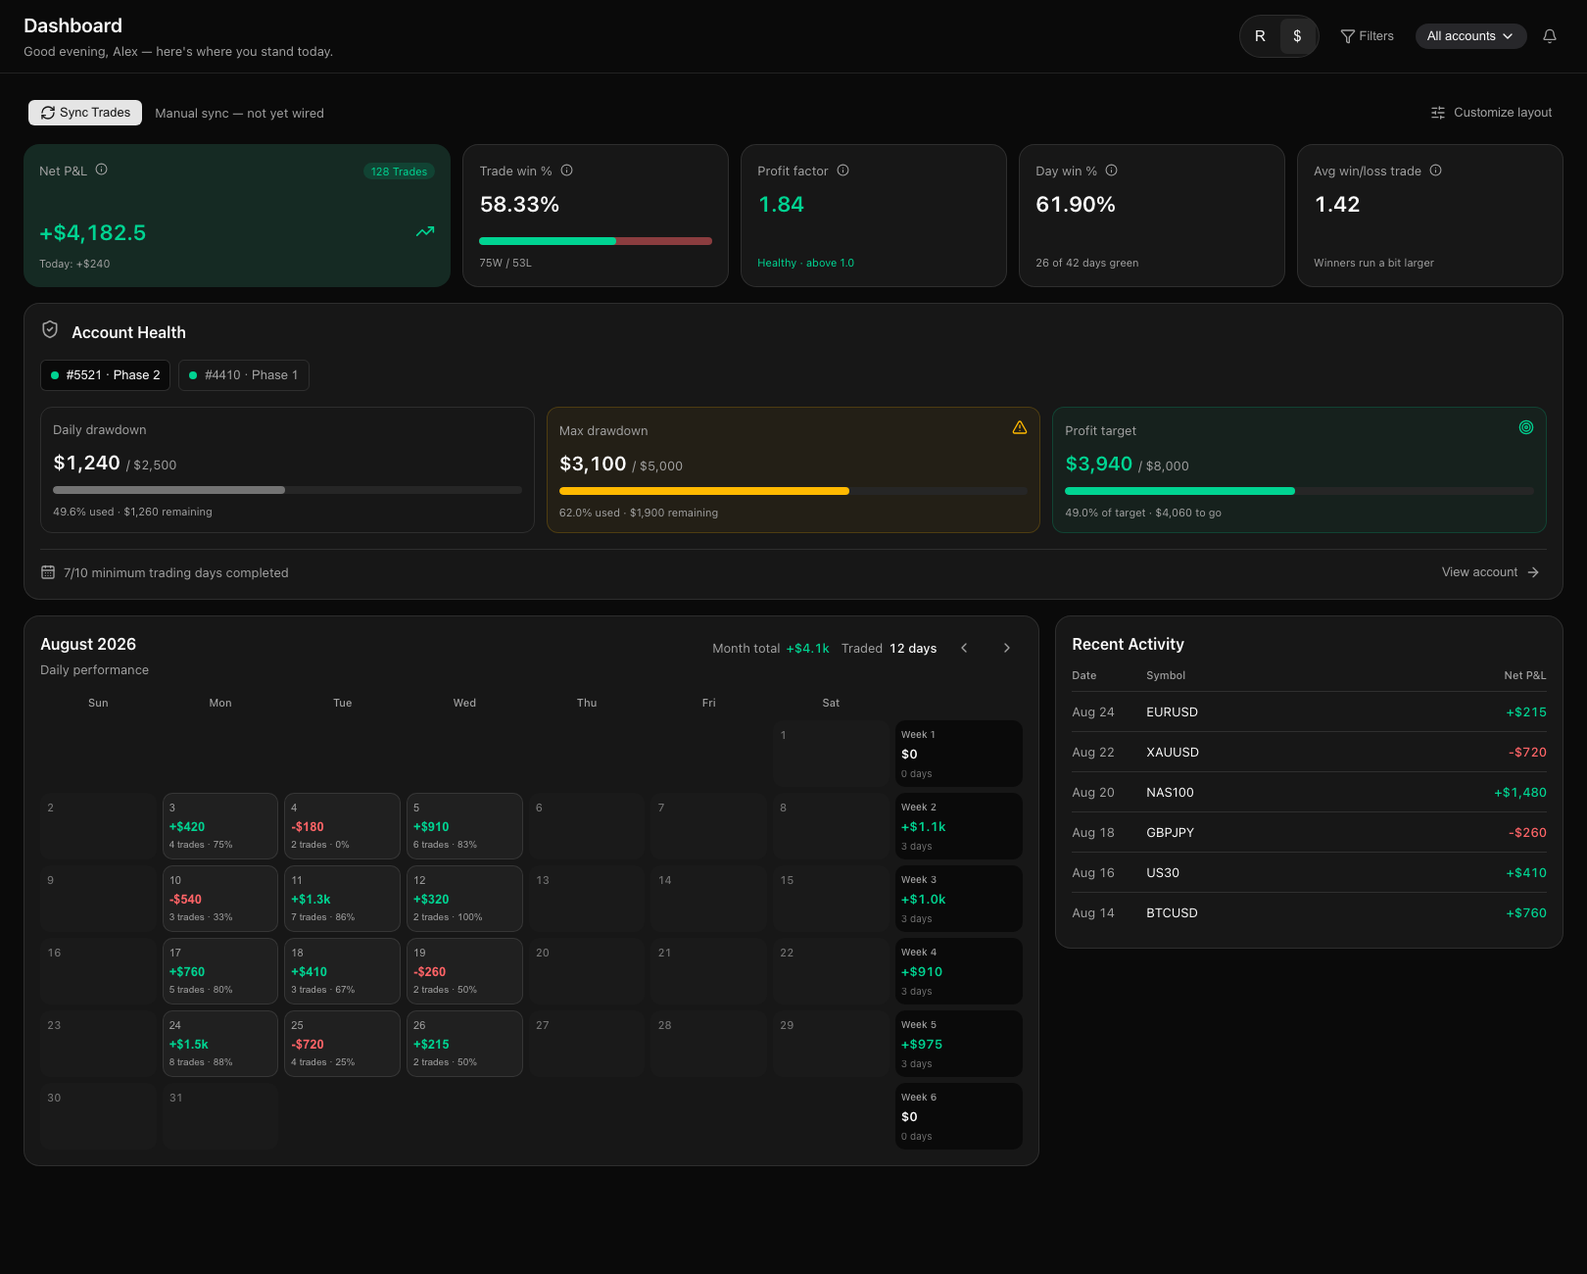
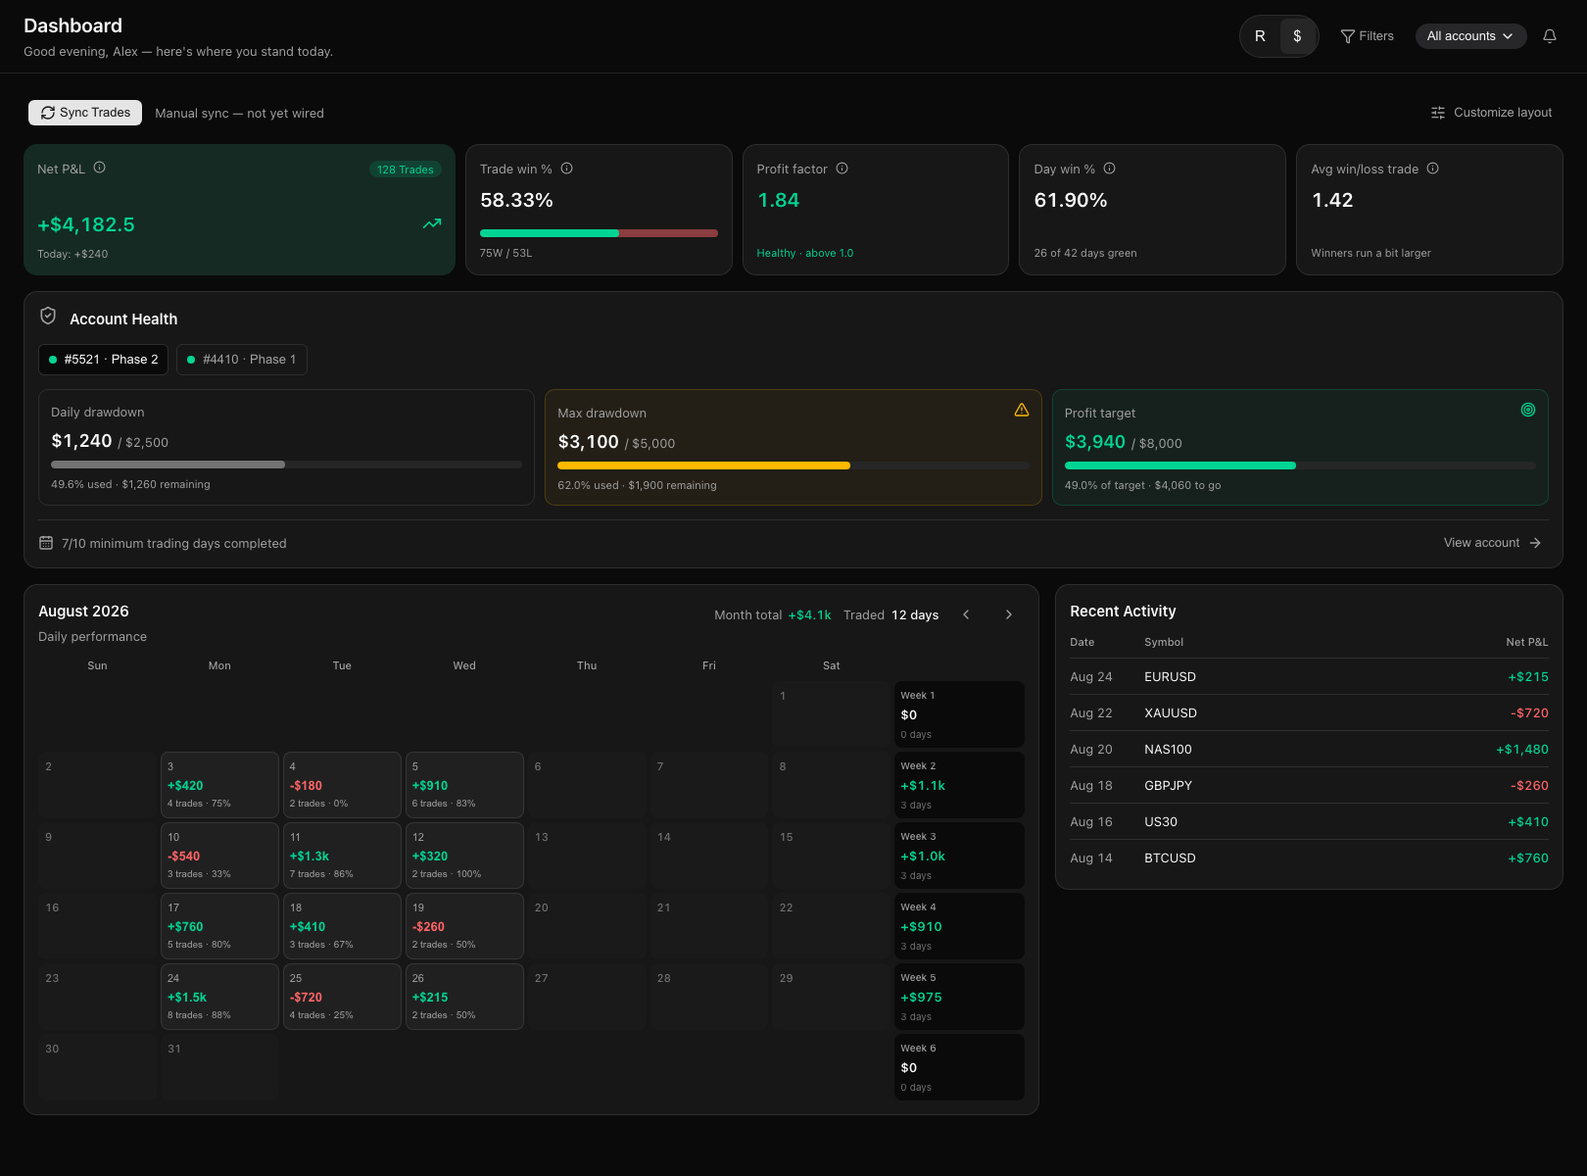
A third scale step, and the real reason the events column was empty
THE FALLBACK WAS NOT BROKEN — THERE WAS NOTHING TO FALL BACK TO, and the column
was hidden so nobody could tell. Two separate causes, both fixed.

The feed is `ff_calendar_thisweek.json` and that is the provider's whole
catalogue: `_nextweek` and `_lastweek` both 404, verified by hitting them. So for
the last third of every week there are genuinely no future releases — checked live
on Friday at 22:00, which is exactly when the screenshot was taken: two events
left in the feed, ZERO of them high-impact. The fallback scans that same feed, so
it correctly found nothing.

I briefly "fixed" this by adding the next-week URL to the config. It 404s. That
is reverted, and config.js now records the verification so the next person does
not spend the same ten minutes — with a note that the list is comma-separated and
calendar.js already merges across feeds, so adding a provider with forward
coverage is a config change when we pick one. The dedupe added for that merge is
kept: one feed today, but flatMap over a list plus an overlapping second source is
a duplicated release the first time anyone adds one.

AND `hideEmpty` WAS HIDING THE EXPLANATION. It defaults to true and hid any empty
section, so the column vanished entirely — taking the fallback, the note, and the
heading with it. The pref means "do not show me a section MY filter has emptied";
it does not mean "hide it when the app has no data". Now narrowed to exactly that:
[…]

diff --git a/frontend/src/components/primitives/brief.jsx b/frontend/src/components/primitives/brief.jsx
@@ -37,7 +37,7 @@ export function BriefCard({ className, children, ...rest }) {
     <section
       data-slot="brief"
       className={cn(
-        'flex flex-col gap-3 rounded-[16px] bg-[var(--surface)] p-4',
+        'flex flex-col gap-3 rounded-[14px] bg-[var(--surface)] p-3.5',
         className,
       )}
       {...rest}
@@ -68,11 +68,11 @@ export function BriefHeader({ icon, title, date, clock, action, aside, className
         {/* The tile is amber because the brief is the morning read, not because
             anything is wrong — 10% is a wash, well below the 15% the impact badges
             use and the 10% the alert rows use for actual warnings. */}
-        <span className="flex size-9 shrink-0 items-center justify-center rounded-[12px] bg-[var(--brief-tile-bg)] text-[var(--warning)] [&_svg]:size-4">
+        <span className="flex size-8 shrink-0 items-center justify-center rounded-[10px] bg-[var(--brief-tile-bg)] text-[var(--warning)] [&_svg]:size-4">
           {icon}
         </span>
         <div className="flex min-w-0 flex-wrap items-center gap-x-4 gap-y-1">
-          <h3 className="text-[16px] leading-6 font-semibold text-[var(--text)]">{title}</h3>
+          <h3 className="text-[15px] leading-6 font-semibold text-[var(--text)]">{title}</h3>
           <span className="text-[13px] leading-5 font-normal text-[var(--muted)]">{date}</span>
           {clock}
         </div>
@@ -144,7 +144,7 @@ export function BriefColumns({ className, children, ...rest }) {
     <div
       data-slot="brief-columns"
       className={cn(
-        'grid grid-cols-2 gap-5 max-[1200px]:grid-cols-1 max-[1200px]:gap-4',
+        'grid grid-cols-2 gap-4 max-[1200px]:grid-cols-1 max-[1200px]:gap-3',
         /* A LONE COLUMN TAKES THE WHOLE WIDTH. `hideEmpty` can switch either section
          * off, and a single half-width list beside an empty half reads as a column that
          * failed to load rather than one the user turned off. `:only-child` says it in
@@ -203,7 +203,7 @@ export function BriefEvent({ currency, title, time, impact = 'low', impactLabel,
     <div
       data-slot="brief-event"
       className={cn(
-        'flex items-center gap-3 rounded-[12px] bg-[var(--brief-row-bg)] px-3 py-2',
+        'flex items-center gap-2.5 rounded-[10px] bg-[var(--brief-row-bg)] px-2.5 py-1.5',
         className,
       )}
       {...rest}
@@ -243,7 +243,7 @@ export function BriefAlert({ severity = 'info', icon, className, children, ...re
   return (
     <div
       data-slot="brief-alert"
-      className={cn('flex items-center gap-3 rounded-[12px] border px-3 py-2.5', className)}
+      className={cn('flex items-center gap-2.5 rounded-[10px] border px-2.5 py-2', className)}
       style={{
         background: `color-mix(in srgb, ${hue} 10%, transparent)`,
         borderColor: `color-mix(in srgb, ${hue} 20%, transparent)`,

diff --git a/frontend/src/features/dashboard/Dashboard.jsx b/frontend/src/features/dashboard/Dashboard.jsx
@@ -92,8 +92,23 @@ function useMinuteClock() {
 const EMPTY_EVENT_COPY = {
   'no-currencies': 'No currencies selected — pick at least one in Brief settings.',
   'filtered-out': 'No events match your Brief settings for this window.',
-  'no-events': 'No events on the calendar right now.',
+  /* THE COMMON CASE, AND IT USED TO SAY NOTHING USEFUL. The provider publishes the
+     CURRENT WEEK ONLY (config.js has the verification), so from Friday evening until the
+     new file lands there are genuinely no future releases — checked on a Friday at 22:00:
+     two events left in the feed, neither high-impact. "No events on the calendar right
+     now" reads as a bug in our app; this says what is actually true and when it changes. */
+  'no-events': 'The economic calendar covers the current week only — next week\'s releases appear once it publishes.',
 };
+
+/* WHICH EMPTY SECTIONS `hideEmpty` MAY HIDE.
+ *
+ * The pref means "do not show me a section my own filter has emptied" — that is what a
+ * user is asking for when they set it. It does not mean "hide it when the DATA is not
+ * there": that is the app having nothing, and the trader should be told rather than
+ * shown a card with a column missing. It matters because the data-gap case is the
+ * common one (see above) and hiding it made the fallback and its explanation
+ * unreachable — the column simply vanished, which is what the owner reported. */
+const USER_EMPTIED = new Set(['filtered-out', 'no-currencies']);
 
 // The feed's closed impact set (see normalizeImpact in src/platform/calendar.js)
 // rendered as the badge that ends each event row. `low` is spelled out rather than
@@ -151,7 +166,8 @@ export function DailyBanner({ notifications = [], prefs, patchBriefPrefs, setBri
 
   // A section is rendered when its toggle is on AND either it has content or the
   // user hasn't asked for empty sections to be hidden.
-  const showEvents = briefSectionOn(prefs, 'events') && (!prefs.hideEmpty || eventRows.length > 0);
+  const showEvents = briefSectionOn(prefs, 'events')
+    && (!prefs.hideEmpty || eventRows.length > 0 || (events != null && !USER_EMPTIED.has(emptyReason)));
   const showAlerts = briefSectionOn(prefs, 'alerts') && (!prefs.hideEmpty || alerts.length > 0);
   // With everything hidden the banner would collapse to a bare title bar, which
   // reads as broken — say so instead.

diff --git a/frontend/src/components/primitives/account.jsx b/frontend/src/components/primitives/account.jsx
@@ -47,7 +47,7 @@ export function AccountCardShell({ className, children, ...rest }) {
     <section
       data-slot="account-card"
       className={cn(
-        'flex flex-col gap-4 rounded-[16px] border border-[var(--line)] bg-[var(--surface)] p-4',
+        'flex flex-col gap-3.5 rounded-[14px] border border-[var(--line)] bg-[var(--surface)] p-3.5',
         className,
       )}
       {...rest}
@@ -70,7 +70,7 @@ export function AccountCardHead({ icon, sub, className, children, ...rest }) {
     <div data-slot="account-head" className={cn('flex flex-col gap-1.5', className)} {...rest}>
       <div className="flex items-center gap-3">
         {icon && <span className="shrink-0 text-[var(--text-2)] [&_svg]:size-5">{icon}</span>}
-        <h3 className="text-[16px] leading-6 font-semibold text-[var(--text)]">{children}</h3>
+        <h3 className="text-[15px] leading-6 font-semibold text-[var(--text)]">{children}</h3>
       </div>
       {sub && <p className="m-0 text-[13px] leading-5 text-[var(--muted)]">{sub}</p>}
     </div>
@@ -156,7 +156,7 @@ export function MeterRow({ className, children, ...rest }) {
   return (
     <div
       data-slot="meter-row"
-      className={cn('grid grid-cols-3 gap-3 max-[1200px]:grid-cols-1', className)}
+      className={cn('grid grid-cols-3 gap-2.5 max-[1200px]:grid-cols-1', className)}
       {...rest}
     >
       {children}
@@ -189,7 +189,7 @@ export function Meter({
   return (
     <div
       data-slot="meter"
-      className={cn('flex flex-col gap-2.5 rounded-[12px] border p-3', className)}
+      className={cn('flex flex-col gap-2 rounded-[10px] border p-3', className)}
       style={{
         // No wash and a plain hairline when the account is fine. See the header on why
         // a quiet meter stays quiet.
@@ -208,7 +208,7 @@ export function Meter({
           these tick on every ingested trade. */}
       <p className="m-0 flex flex-wrap items-baseline gap-1.5">
         <span
-          className="text-[20px] leading-7 font-semibold tabular-nums"
+          className="text-[18px] leading-6 font-semibold tabular-nums"
           style={{ color: hue && tone !== 'warn' && tone !== 'bad' ? hue : 'var(--text)' }}
         >
           {value}

diff --git a/frontend/src/components/primitives/calendar.jsx b/frontend/src/components/primitives/calendar.jsx
@@ -46,7 +46,7 @@ export function CalRoot({ className, children, ...rest }) {
   return (
     <div
       data-slot="cal-root"
-      className={cn('flex min-h-0 flex-1 flex-col gap-4', className)}
+      className={cn('flex min-h-0 flex-1 flex-col gap-3', className)}
       {...rest}
     >
       {children}
@@ -58,7 +58,7 @@ export function CalGrid({ columns = 8, className, children, ...rest }) {
   return (
     <div
       data-slot="cal-grid"
-      className={cn('grid gap-1.5', className)}
+      className={cn('grid gap-1', className)}
       // 7 days plus the week-summary column. A CSS variable rather than a Tailwind
       // class because the caller owns whether the week column exists.
       style={{ gridTemplateColumns: `repeat(${columns - 1}, minmax(0, 1fr)) minmax(0, 1.1fr)` }}
@@ -96,7 +96,7 @@ export function CalCell({ tone = 'idle', clickable = false, className, children,
       data-slot="cal-cell"
       data-tone={tone}
       className={cn(
-        'flex min-h-[3.75rem] flex-col items-stretch gap-0.5 rounded-[10px] border p-1.5 text-left',
+        'flex min-h-[3.25rem] flex-col items-stretch gap-0.5 rounded-[8px] border p-1.5 text-left',
         clickable && 'cursor-pointer transition-colors hover:border-[var(--line-strong)]',
         clickable && 'focus-visible:ring-2 focus-visible:ring-[var(--accent-ring)] focus-visible:outline-none',
         className,
@@ -159,7 +159,7 @@ export function CalWeek({ tone, label, value, sub, className, ...rest }) {
   return (
     <div
       data-slot="cal-week"
-      className={cn('flex min-h-[3.75rem] flex-col justify-center gap-0.5 rounded-[10px] bg-[var(--bg)] p-1.5', className)}
+      className={cn('flex min-h-[3.25rem] flex-col justify-center gap-0.5 rounded-[8px] bg-[var(--bg)] p-1.5', className)}
       {...rest}
     >
       <span className="text-[10px] leading-4 font-medium text-[var(--muted)]">{label}</span>

diff --git a/test/dash-panels.test.js b/test/dash-panels.test.js
@@ -20,7 +20,7 @@ test('the three cards are one shell, not three', () => {
    * are built as one — three hand-written shells is three places for the radius to
    * drift, which is exactly what happened to `.dash-cal-panel`, `.dash-activity` and
    * `.dash-equity` in the CSS this replaces. */
-  assert.match(panel, /rounded-\[16px\] border border-\[var\(--line\)\] bg-\[var\(--surface\)\] p-4/);
+  assert.match(panel, /rounded-\[14px\] border border-\[var\(--line\)\] bg-\[var\(--surface\)\] p-3.5/);
   const uses = (dash.match(/<PanelCard/g) || []).length;
   assert.ok(uses >= 3, `expected all three cards on PanelCard, found ${uses}`);
   // And none of them kept a bespoke box.
@@ -68,7 +68,7 @@ test('the calendar owns the gap the old header used to supply', () => {
    * the whole calendar is ONE child of it — so without CalRoot the weekday row crowds
    * the subtitle. Caught in a headless render, not by reading the numbers. */
   assert.match(cal, /export function CalRoot/);
-  assert.match(cal, /flex min-h-0 flex-1 flex-col gap-4/);
+  assert.match(cal, /flex min-h-0 flex-1 flex-col gap-3/);
   assert.match(month, /<CalRoot>/);
   assert.ok(!month.includes('className="cal"'), 'the legacy .cal wrapper is gone');
 });
@@ -87,7 +87,7 @@ test('a page never writes a column width', () => {
 test('the list is a list, and its rows are divided between rather than under', () => {
   // `last:border-b-0` — a border under the final row reads as a list cut off mid-scroll
   // that continues below the card, which is the one thing a "recent" list must not imply.
-  assert.match(panel, /py-2\.5 text-\[13px\] leading-5 last:border-b-0/);
+  assert.match(panel, /py-2 text-\[13px\] leading-5 last:border-b-0/);
   assert.ok(!recentCode.includes('<table'), 'three single values a row is a list, not a table');
 });
 

diff --git a/test/brief-prefs.test.js b/test/brief-prefs.test.js
@@ -367,7 +367,18 @@ test('the banner filters and formats through the prefs', () => {
   /* `eventRows`, not `shown`, since the fallback landed (2026-08-28). hideEmpty has to
    * consider what will ACTUALLY be rendered — with a fallback list present the column is
    * not empty, and hiding it would hide the very events the fallback exists to surface. */
-  assert.match(dash, /briefSectionOn\(prefs, 'events'\) && \(!prefs\.hideEmpty \|\| eventRows\.length > 0\)/);
+    /* hideEmpty no longer hides a section the DATA emptied — only one the user's own
+   * filter emptied. The provider publishes the current week only, so from Friday
+   * evening the events column is legitimately empty, and hiding it took the
+   * explanation and the fallback down with it: the column simply vanished. */
+  /* hideEmpty no longer hides a section the DATA emptied — only one the user's own
+   * filter emptied. The provider publishes the current week only (config.js records
+   * the verification), so from Friday evening the events column is legitimately empty,
+   * and hiding it took the explanation AND the high-impact fallback down with it: the
+   * column simply vanished, which is what the owner reported seeing. */
+  assert.match(dash, /!prefs\.hideEmpty \|\| eventRows\.length > 0/);
+  assert.match(dash, /!USER_EMPTIED\.has\(emptyReason\)/);
+  assert.match(dash, /const USER_EMPTIED = new Set\(\['filtered-out', 'no-currencies'\]\)/);
   assert.match(dash, /briefSectionOn\(prefs, 'alerts'\) && \(!prefs\.hideEmpty \|\| alerts\.length > 0\)/);
   assert.match(dash, /allQuiet \? \(/);
 });

diff --git a/test/dash-brief.test.js b/test/dash-brief.test.js
@@ -19,14 +19,14 @@ test('the card carries the frame\'s geometry', () => {
   const geometry = [
     // One step down the frame's own scale (owner call, 2026-08-28): 28->20, 24->16,
     // 18->16, 14->13. Proportions are the frame's; the card is one size smaller.
-    ['card radius + padding', /rounded-\[16px\] bg-\[var\(--surface\)\] p-4/],
-    ['blocks 12 apart', /flex flex-col gap-3 rounded-\[16px\]/],
-    ['header tile', /size-9 shrink-0 items-center justify-center rounded-\[12px\]/],
-    ['title', /text-\[16px\] leading-6 font-semibold/],
+    ['card radius + padding', /rounded-\[14px\] bg-\[var\(--surface\)\] p-3.5/],
+    ['blocks 12 apart', /flex flex-col gap-3 rounded-\[14px\]/],
+    ['header tile', /size-8 shrink-0 items-center justify-center rounded-\[10px\]/],
+    ['title', /text-\[15px\] leading-6 font-semibold/],
     ['date', /text-\[13px\] leading-5 font-normal text-\[var\(--muted\)\]/],
-    ['two columns, 20 apart', /grid grid-cols-2 gap-5/],
-    ['event row', /rounded-\[12px\] bg-\[var\(--brief-row-bg\)\] px-3 py-2/],
-    ['alert row', /rounded-\[12px\] border px-3 py-2\.5/],
+    ['two columns, 20 apart', /grid grid-cols-2 gap-4/],
+    ['event row', /rounded-\[10px\] bg-\[var\(--brief-row-bg\)\] px-2.5 py-1.5/],
+    ['alert row', /rounded-\[10px\] border px-2.5 py-2/],
     ['pill chips', /rounded-full border border-\[var\(--brief-chip-border\)\] px-1\.5 py-0\.5/],
   ];
   for (const [what, re] of geometry) {

diff --git a/frontend/src/components/primitives/kpi.jsx b/frontend/src/components/primitives/kpi.jsx
@@ -61,7 +61,7 @@ export function KpiRow({ className, children, ...rest }) {
     <div
       data-slot="kpi-row"
       className={cn(
-        'flex flex-wrap gap-3 [&>*]:min-w-[11rem] [&>*]:flex-1',
+        'flex flex-wrap gap-2.5 [&>*]:min-w-[10rem] [&>*]:flex-1',
         // The hero is ~1.7x a default card in the frame (392 : 231). Dropped once the
         // row wraps: on a two-card line a 1.7 ratio makes the hero swallow the row.
         'min-[1080px]:[&>[data-kpi=hero]]:flex-[1.7]',
@@ -81,7 +81,7 @@ export function KpiCard({ hero = false, tone = 'flat', className, children, ...r
       data-slot="kpi-card"
       data-kpi={hero ? 'hero' : undefined}
       className={cn(
-        'flex flex-col gap-2.5 rounded-[16px] p-4',
+        'flex flex-col gap-2 rounded-[14px] p-3.5',
         hero
           // The wash IS the border: a hero with both reads as two nested boxes.
           ? 'border-0'
@@ -146,7 +146,7 @@ export function KpiValue({ tone = 'flat', trailing, className, children, ...rest
   return (
     <div data-slot="kpi-value" className={cn('flex items-end justify-between gap-3', className)} {...rest}>
       <span
-        className="text-[22px] leading-7 font-semibold tabular-nums"
+        className="text-[20px] leading-7 font-semibold tabular-nums"
         style={{ color: hue || 'var(--text)' }}
       >
         {children}

diff --git a/frontend/src/components/primitives/panel.jsx b/frontend/src/components/primitives/panel.jsx
@@ -24,7 +24,7 @@ export function PanelCard({ className, children, ...rest }) {
     <section
       data-slot="panel"
       className={cn(
-        'flex min-w-0 flex-col gap-3 rounded-[16px] border border-[var(--line)] bg-[var(--surface)] p-4',
+        'flex min-w-0 flex-col gap-3 rounded-[14px] border border-[var(--line)] bg-[var(--surface)] p-3.5',
         className,
       )}
       {...rest}
@@ -49,7 +49,7 @@ export function PanelHead({ sub, meta, action, className, children, ...rest }) {
       {...rest}
     >
       <div className="flex min-w-0 flex-col gap-1">
-        <h3 className="flex items-center gap-2 text-[16px] leading-6 font-semibold text-[var(--text)]">
+        <h3 className="flex items-center gap-2 text-[15px] leading-6 font-semibold text-[var(--text)]">
           {children}
         </h3>
         {sub && <p className="m-0 text-[13px] leading-5 text-[var(--muted)]">{sub}</p>}
@@ -107,7 +107,7 @@ export function PanelRow({ className, children, ...rest }) {
     <div
       data-slot="panel-row"
       className={cn(
-        'flex items-center gap-3 border-b border-[var(--line)] py-2.5 text-[13px] leading-5 last:border-b-0',
+        'flex items-center gap-3 border-b border-[var(--line)] py-2 text-[13px] leading-5 last:border-b-0',
         className,
       )}
       {...rest}

diff --git a/src/platform/config.js b/src/platform/config.js
@@ -79,6 +79,18 @@ export const config = {
   // events are past (they cluster mid-week), the banner correctly shows its
   // empty state until the next week's feed rolls over. Add mirror/next-week URLs
   // here if a source becomes available.
+  /* THIS WEEK ONLY, AND THAT IS THE PROVIDER'S LIMIT, NOT A CHOICE.
+   *
+   * Verified 2026-08-28: faireconomy publishes `ff_calendar_thisweek.json` and nothing
+   * else — `_nextweek` and `_lastweek` both 404. So for the last third of every week the
+   * feed legitimately has no future events (checked on a Friday evening: 2 events left,
+   * zero of them high-impact), and the Brief has nothing to show however it is filtered.
+   *
+   * That is a DATA gap, not a UI one, and the UI now says so instead of rendering an
+   * empty column — see EMPTY_EVENT_COPY in Dashboard.jsx. Fixing it properly means a
+   * second provider with forward coverage; the list is comma-separated and calendar.js
+   * already merges and dedupes across feeds, so that is a config change when we pick
+   * one. ECON_CALENDAR_URL overrides this per environment. */
   econCalendarUrls: (
     process.env.ECON_CALENDAR_URL ?? 'https://nfs.faireconomy.media/ff_calendar_thisweek.json'
   ).split(',').map((s) => s.trim()).filter(Boolean),

diff --git a/src/platform/calendar.js b/src/platform/calendar.js
@@ -55,6 +55,16 @@ export function upcomingEvents(raw, now = new Date(), limit = DEFAULT_LIMIT) {
       ts: Date.parse(e.date),
     }))
     .filter((e) => Number.isFinite(e.ts) && e.ts >= cutoff)
+    /* DEDUPE. One feed is configured today, but `econCalendarUrls` is a list and this
+     * function flatMaps every one of them — the moment a second provider is added for
+     * forward coverage (see config.js) the two overlap at the week boundary and the same
+     * release arrives twice, which reads as a scheduling error rather than as a
+     * duplicate. Keyed on the three fields that identify a release, with `ts` rather than
+     * the raw string so two feeds writing the same instant at different offsets still
+     * collapse. */
+    .filter((e, i, all) => all.findIndex(
+      (o) => o.ts === e.ts && o.title === e.title && o.country === e.country,
+    ) === i)
     .sort((a, b) => a.ts - b.ts)
     .slice(0, limit)
     .map(({ ts, ...e }) => e); // ts was only for filter/sort — not part of the API shape

diff --git a/test/account-health.test.js b/test/account-health.test.js
@@ -81,7 +81,7 @@ test('the day count is printed once', () => {
 test('the card and its meters reflow inside the 1080-1920 range', () => {
   // Three meters become one column at 1200: a meter holds a 22px figure, its limit, a
   // bar and a footer line, and under ~300px the figure and the limit collide.
-  assert.match(account, /grid grid-cols-3 gap-3 max-\[1200px\]:grid-cols-1/);
+  assert.match(account, /grid grid-cols-3 gap-2.5 max-\[1200px\]:grid-cols-1/);
   // Tabs wrap rather than scroll. A horizontally scrolling strip of accounts hides the
   // account the trader is looking for, which is the one thing this row exists to find.
   assert.match(account, /flex flex-wrap items-center gap-2/);
